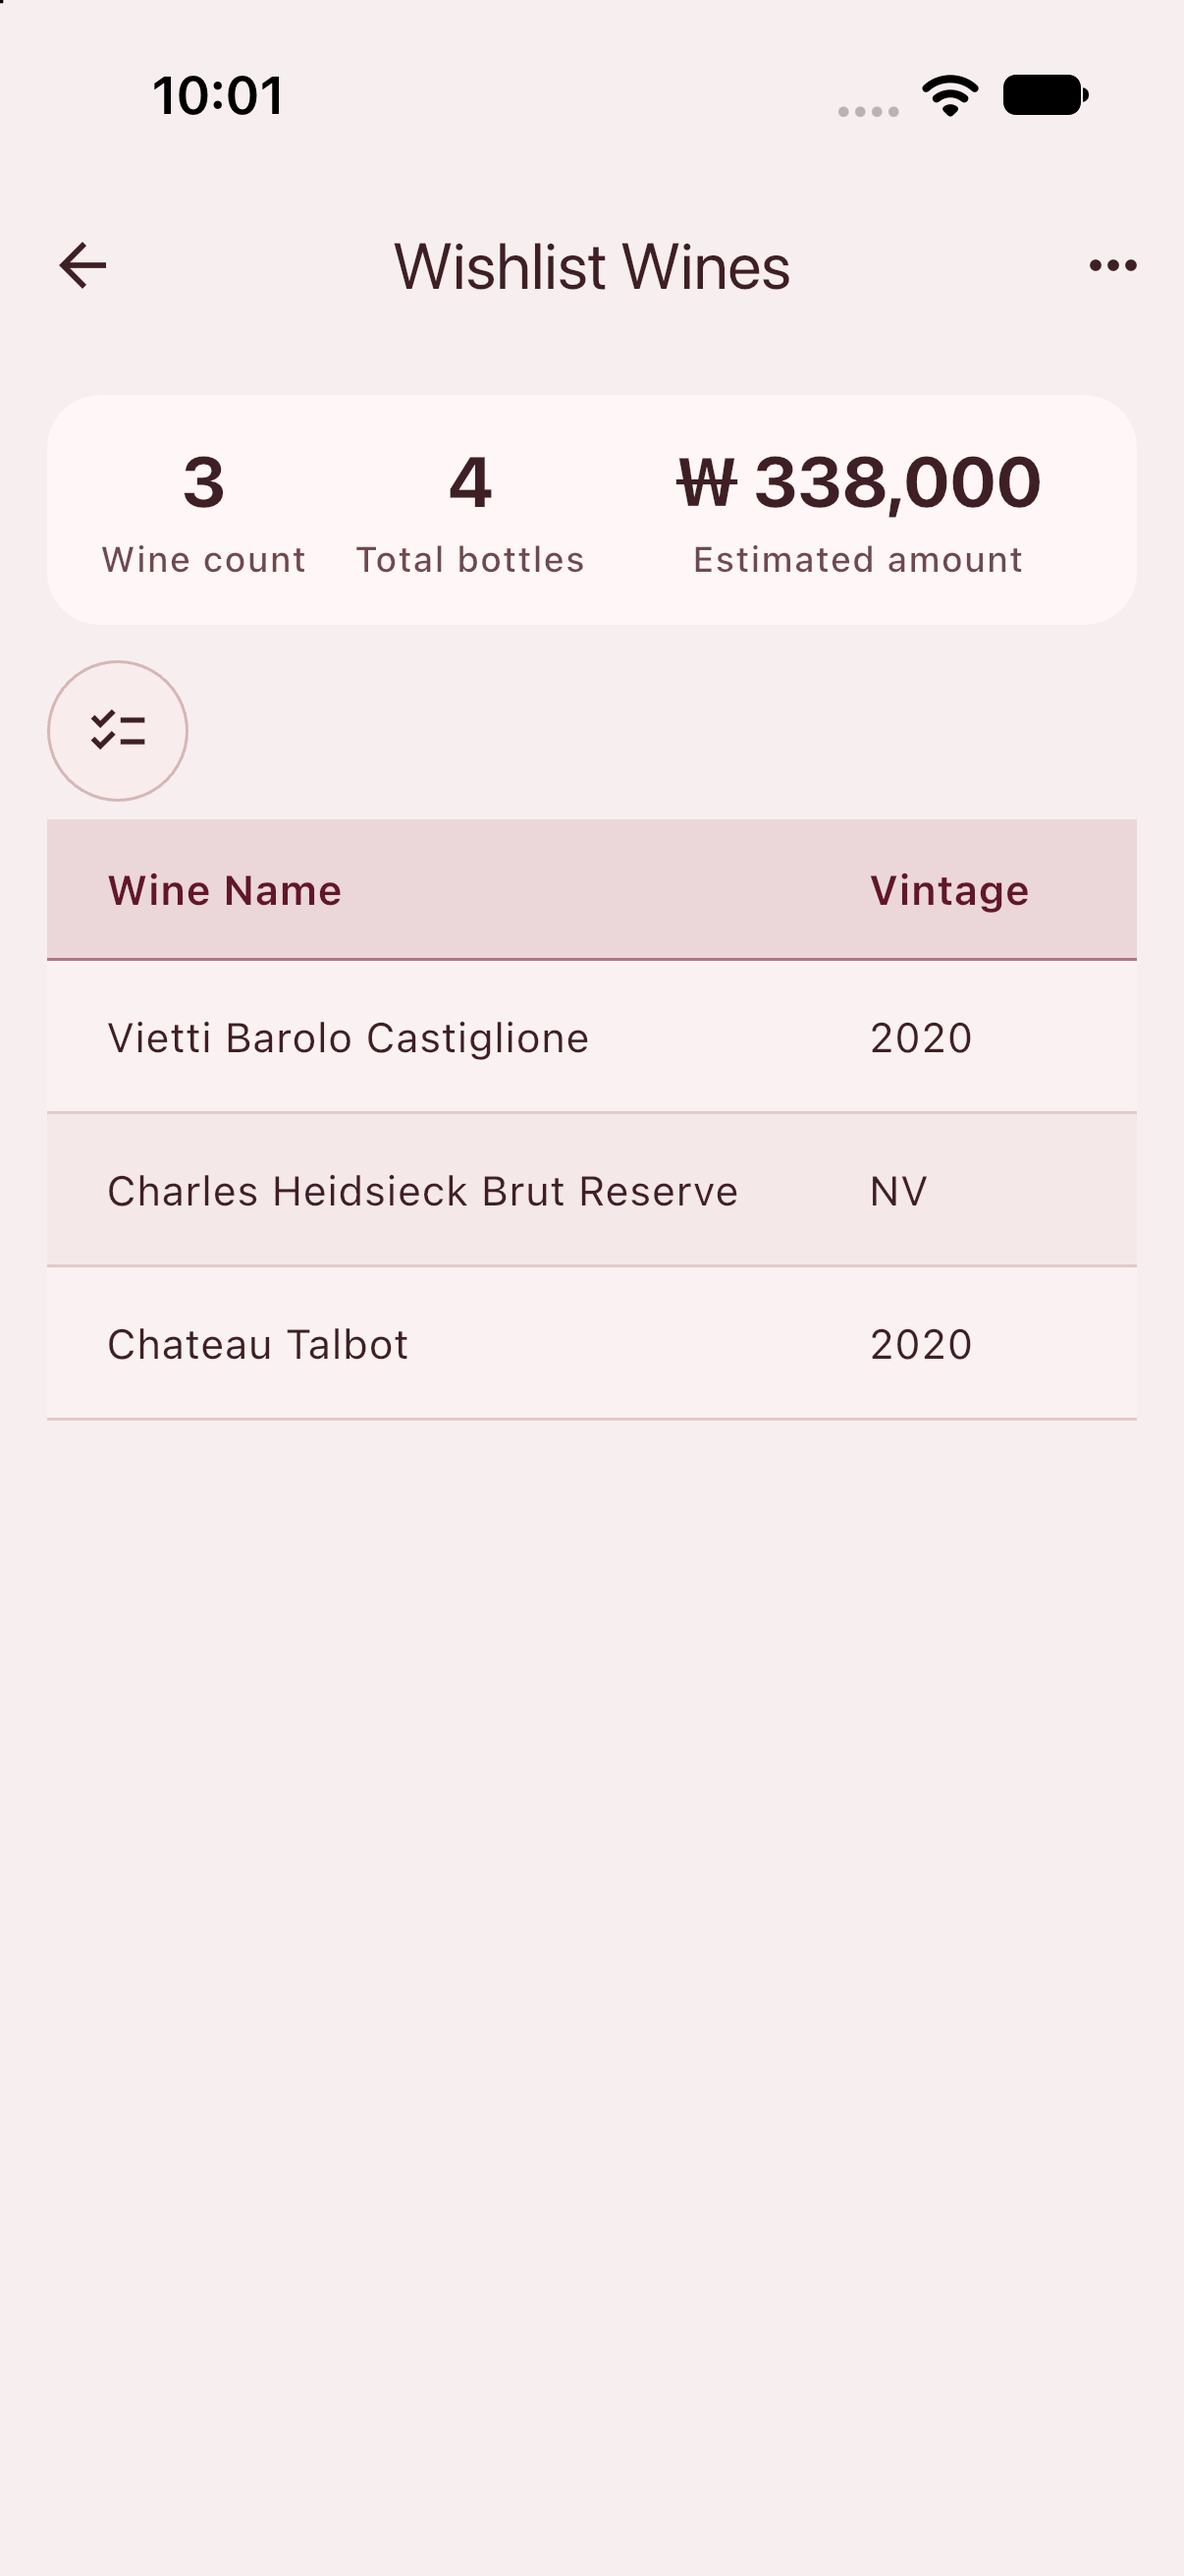
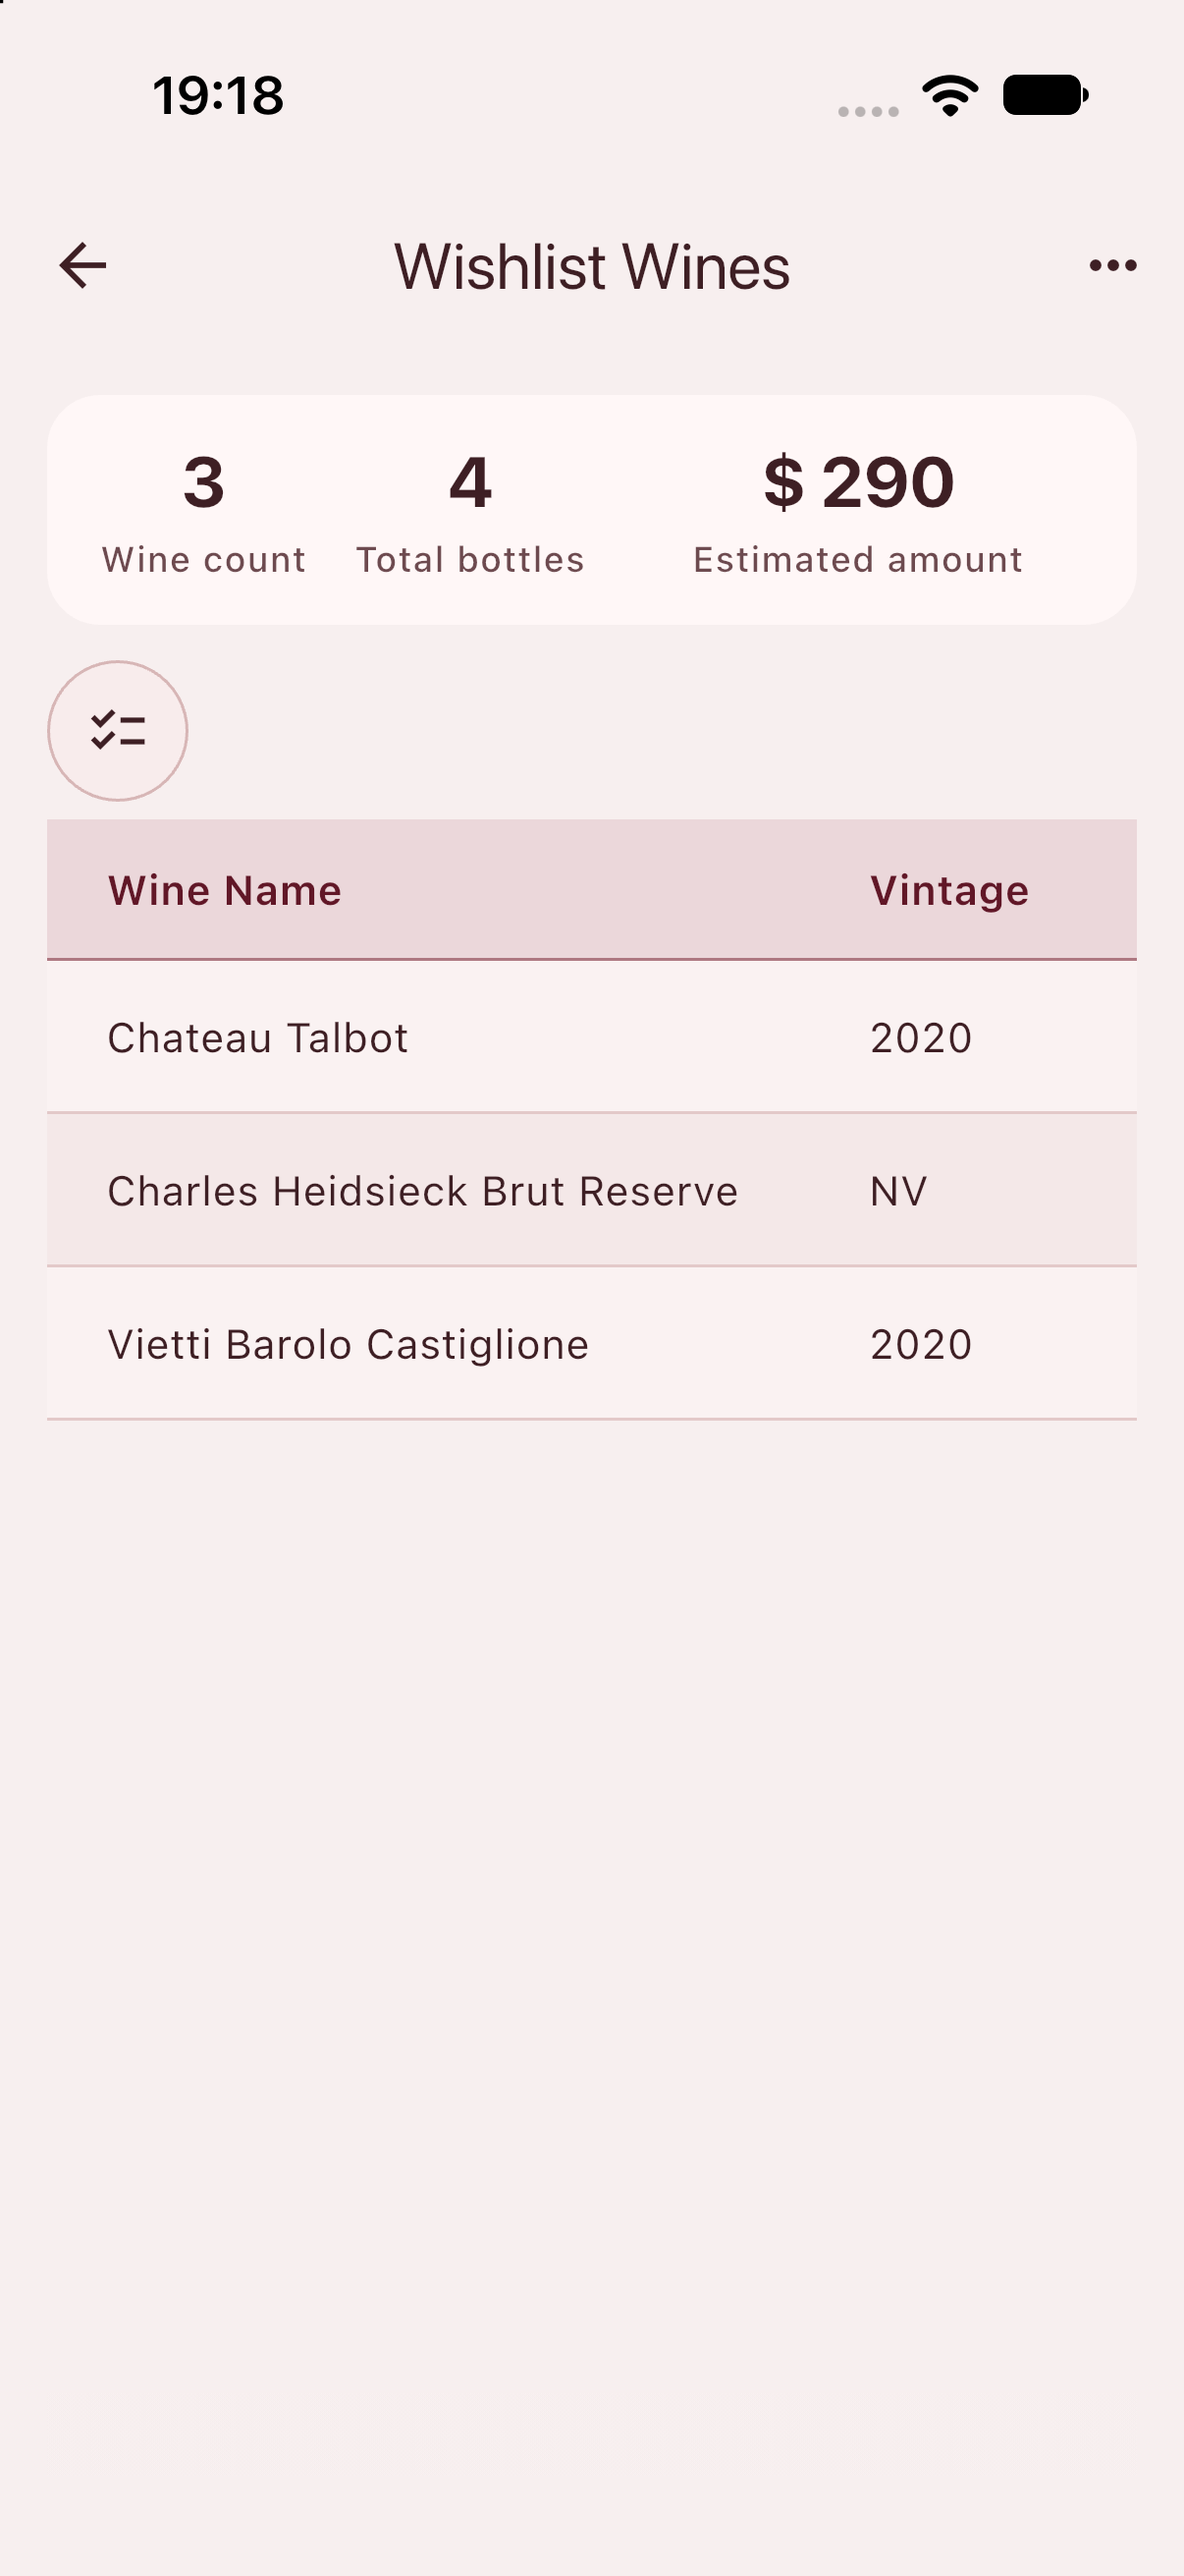
Refresh English tasting and USD wishlist screenshots

diff --git a/features.html b/features.html
@@ -202,7 +202,7 @@
             <p>Record a small pour or a finished bottle and keep track of what remains. Save ratings, photos, notes, and impressions of body, tannin, sweetness, acidity, and aromas. Keep several tastings for one bottle, or browse the photo list to revisit the wine and the occasion.</p>
             <div class="feature-media">
               <figure class="feature-shot"><a href="images/features/olwine-tasting-photos-en.png"><img src="images/features/olwine-tasting-photos-en.png" alt="Tasting records with photos" width="1206" height="2622" loading="lazy"></a><figcaption>Tasting records with photos</figcaption></figure>
-              <figure class="feature-shot"><a href="images/features/partial-tasting_e.png"><img src="images/features/partial-tasting_e.png" alt="Amounts and tasting ratings" width="851" height="1848" loading="lazy"></a><figcaption>Amounts and tasting ratings</figcaption></figure>
+              <figure class="feature-shot"><a href="images/features/partial-tasting_e.png"><img src="images/features/partial-tasting_e.png" alt="Tasting amount and ml inputs highlighted in red, with an English memo" width="851" height="1848" loading="lazy"></a><figcaption>Amounts and tasting ratings</figcaption></figure>
             </div>
           </article>
           <article class="feature-item" id="organization-en">
@@ -253,7 +253,7 @@
             <h3>Keep a list for your next purchase</h3>
             <p>Keep wines you would like to try in a separate wishlist, with quantities, possible shops, and notes. When you buy one, carry those details into your collection without starting again.</p>
             <div class="feature-media">
-              <figure class="feature-shot"><a href="images/features/wishlist_e.png"><img src="images/features/wishlist_e.png" alt="Your wine wishlist" width="1206" height="2622" loading="lazy"></a><figcaption>Your wine wishlist</figcaption></figure>
+              <figure class="feature-shot"><a href="images/features/wishlist_e.png"><img src="images/features/wishlist_e.png" alt="English wishlist with three wines, four bottles, and a $290 estimated total" width="1206" height="2622" loading="lazy"></a><figcaption>Your wine wishlist</figcaption></figure>
             </div>
           </article>
           <article class="feature-item" id="qr-en">

diff --git a/FEATURE_SCREENSHOT_BRIEF.md b/FEATURE_SCREENSHOT_BRIEF.md
@@ -2,6 +2,13 @@
 
 기능을 요금제로 나누지 않고 아래 순서로 소개한다. 한국어·영어 설명은 같은 내용을 사용한다. 기능별 이미지는 1~2장이다.
 
+## 2026-10-25 영문 이미지 갱신
+
+- `partial-tasting_e.png`: iPhone 17 / iOS 27 실제 시음 기록 수정 화면을 재촬영했다. 와인명은 `The Nature Sound of the World` 한 줄, 메모는 영어로 시뮬레이터에 저장했다. 2026-10-15 19시·600ml·평점 3.8과 기존 라벨 사진은 유지했다. 원본 캡처는 1206×2622이며, 내장 이미지 편집으로 시음량 선택란과 ml 수량 입력란 두 곳만 붉은 굵은 사각 테두리로 강조한 최종 파일은 851×1848이다. 평점은 강조하지 않았다. 국문 이미지는 변경하지 않았다.
+- 이미지 편집 지시: 실제 영문 캡처를 대상으로 국문 `partial-tasting.png`의 붉은 사각 테두리 스타일만 참고한다. `Tasting Amo...` / `ml` 선택란과 `ml` / `600` 입력란의 제목·전체 경계를 각각 한 박스로 감싼다. 평점 3.8은 제외하고 사진·와인명·날짜·시간·메모·나머지 UI는 그대로 유지한다. 기기 프레임·아일랜드·설명·워터마크를 추가하지 않는다.
+- `wishlist_e.png`: 실제 영문 구매희망 목록을 재촬영했다(1206×2622, 이미지 편집 없음). 촬영 당시 목록이 비어 있어 예시 3종·4병을 등록했다. `Vietti Barolo Castiglione` 2020 / 1병 / $80, `Charles Heidsieck Brut Reserve` NV / 2병 / $55, `Chateau Talbot` 2020 / 1병 / $100이며 예상 합계는 $290이다. 촬영용 예시 금액이며 환율 환산이나 실제 판매가 안내가 아니다. 모든 와인명은 영어 한 줄로 표시한다.
+- 사용자 요청에 따라 시뮬레이터의 영문 와인명·메모와 구매희망 예시 데이터는 원래 상태로 복원하지 않았다. 보유 와인 수량·위치·시음량·평점·사진은 변경하지 않았으며 AI 요청·구매·백업 복구를 실행하지 않았다. 아래 과거 캡처 이력은 출처 기록으로 유지한다.
+
 ## 2026-10-22 갱신
 
 - 취향 분석·추천 설명을 현재 기간 선택과 내부/외부 AI, 취향·음식·상황·비교 시음 네 추천 목적에 맞게 수정했다.
